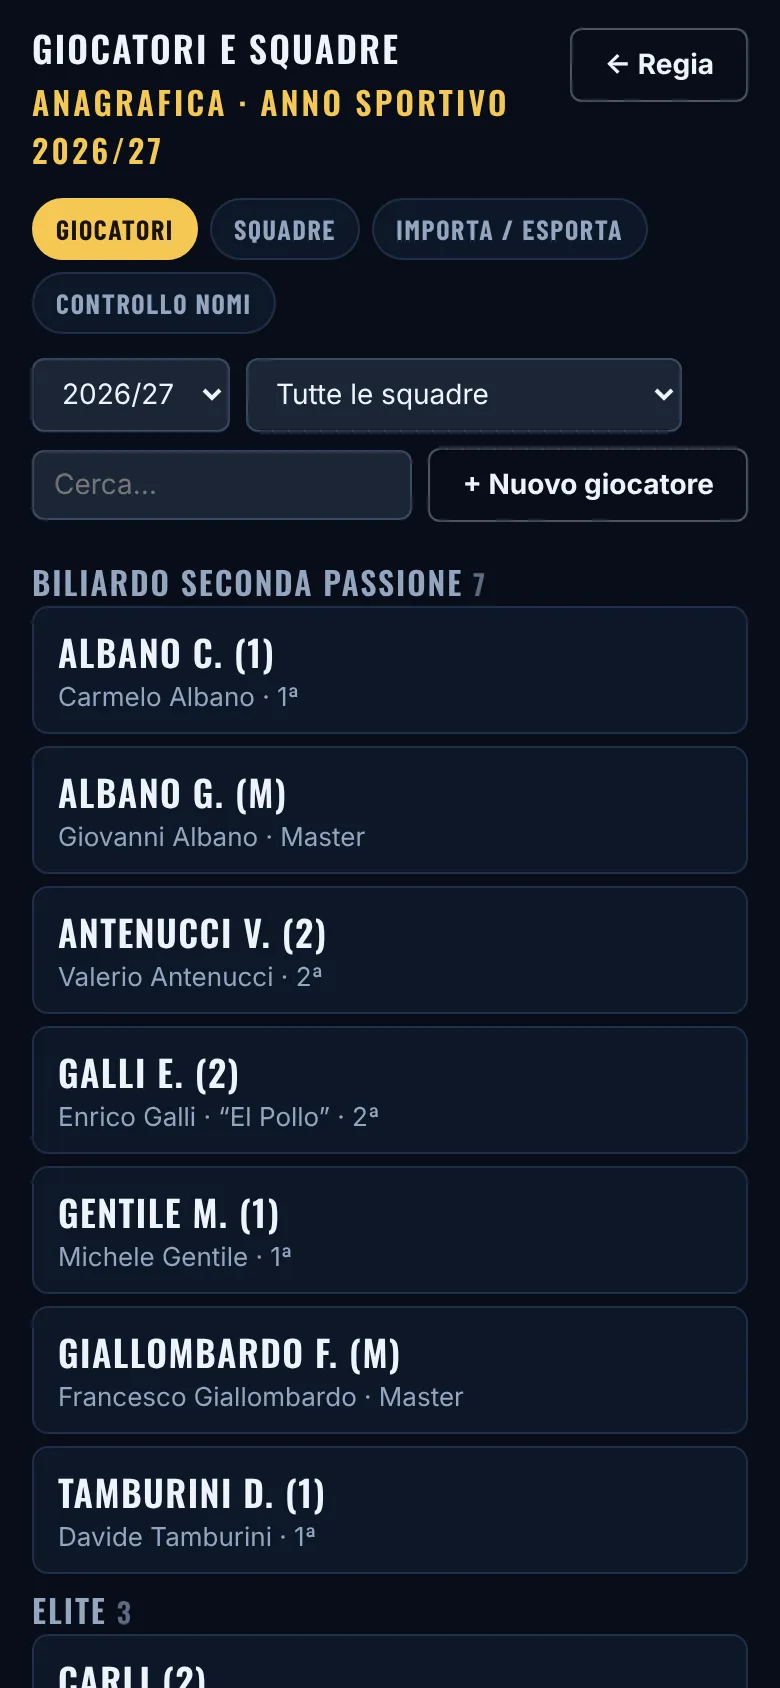
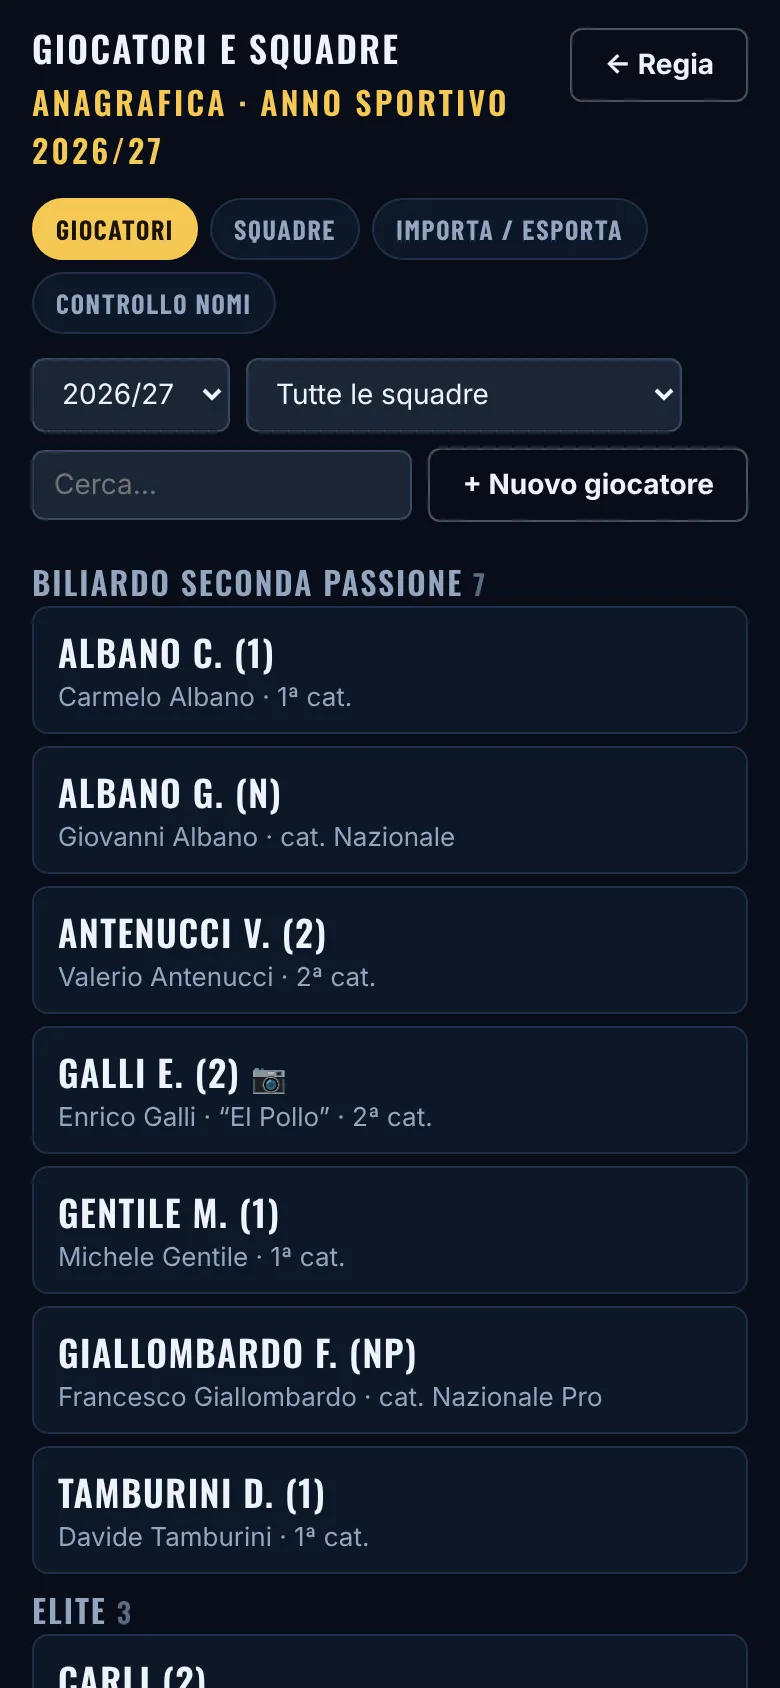
Categorie Nazionale e Nazionale Pro; etichette "2ª cat." / "cat. Master" in elenchi e pagine dei giocatori
Claude-Session: https://claude.ai/code/session_01EqSLKnxJMSCgy9CtMYkmaD

diff --git a/js/anagrafica.js b/js/anagrafica.js
@@ -2,11 +2,13 @@
    I file js/ si caricano in ordine da index.html e condividono le stesse variabili (script classici, non moduli:
    così la regia funziona anche aperta dal disco). L'ordine conta. */
 /* ================= anagrafica: giocatori e squadre (giocatori/<codice>, squadre/<codice>) =================
-   giocatori/<codice> = {cognome, nome, sopr?, tab?, anni:{<anno sportivo>: {sq:<codice squadra>, cat:"M"|"1"|"2"|"3"}}}
+   giocatori/<codice> = {cognome, nome, sopr?, tab?, anni:{<anno sportivo>: {sq:<codice squadra>, cat:"NP"|"N"|"M"|"1"|"2"|"3"}}}  (NP = Nazionale Pro, N = Nazionale, M = Master)
    anno sportivo = anno di inizio (2026 = 2026/27, da settembre ad agosto). Il codice nasce alla prima registrazione e non cambia più. */
 let ANAG = null, SQUADRE = null, anErr = "", anTab = "g", anStag = null, anSq = "", anQ = "", anImp = "", anEd = null, anWatch = false;
-const CATS = ["M","1","2","3"];
-const catLabel = c => c==="M" ? "Master" : c ? c + "ª" : "";
+const CATS = ["NP","N","M","1","2","3"];
+const CATN = {NP:"Nazionale Pro", N:"Nazionale", M:"Master"};
+const catShort = c => CATN[c] || (c ? c + "ª" : "");   /* tendina della scheda */
+const catLabel = c => CATN[c] ? "cat. " + CATN[c] : c ? c + "ª cat." : "";   /* elenchi e pagine: "cat. Master", "2ª cat." */
 const stagione = d => { const x = String(d || today()), y = +x.slice(0,4), m = +x.slice(5,7); return m>=9 ? y : y-1; };
 const stagLabel = y => `${y}/${String(+y+1).slice(2)}`;
 const anniOf = p => Object.keys((p && p.anni) || {}).map(Number).sort((a,b)=>a-b);
@@ -18,7 +20,8 @@ const sqName = k => (SQUADRE && SQUADRE[k] && SQUADRE[k].nome) || k || "";
 const sqSorted = () => Object.entries(SQUADRE||{}).sort((a,b)=>isClub(b[0])-isClub(a[0]) || String(a[1].nome).localeCompare(String(b[1].nome)));
 const findSq = nome => { nome = String(nome||"").trim().toLowerCase(); if(!nome) return ""; const x = Object.entries(SQUADRE||{}).find(([k,s])=>String(s.nome||"").trim().toLowerCase()===nome); return x ? x[0] : ""; };
 const sqLogo = (k, s) => isClub(k) ? `<img src="${LOGO_HOME}" alt="">` : s && s.logo ? `<img src="${esc(s.logo)}" alt="">` : `<i class="sb">${esc(String((s && s.nome) || "?").charAt(0).toUpperCase())}</i>`;
-function parseCat(t){ t = String(t||"").trim().toUpperCase(); if(/^M/.test(t)) return "M"; const n = t.match(/^[1-3]/); return n ? n[0] : ""; }
+function parseCat(t){ t = String(t||"").trim().toUpperCase().replace(/^CAT(EGORIA)?\.?\s*/, "");
+  if(/^(NP|PRO|NAZ\w*\.?\s*PRO)/.test(t)) return "NP"; if(/^(N|NAZ)/.test(t)) return "N"; if(/^M/.test(t)) return "M"; const n = t.match(/^[1-3]/); return n ? n[0] : ""; }
 function parseAnno(t){ const m = String(t||"").match(/(20\d\d)/); return m ? +m[1] : null; }
 const wErr = err => err && err.code==="PERMISSION_DENIED" ? "Firebase rifiuta la scrittura: controlla che le regole del database abbiano i nodi giocatori, squadre e foto (vedi LEGGIMI)" : "Salvataggio non riuscito (" + ((err && (err.code||err.message)) || "?") + ")";
 function watchAnag(){
@@ -102,7 +105,7 @@ function anSqHTML(){
 }
 function anImpHTML(){
   return `<section class="panel"><h2>Importa da tabella</h2>
-    <p class="hint">Copia le righe da Excel, con la riga di intestazione, e incollale qui. Colonne: Nome, Cognome, Squadra, Città, Categoria (M, 1, 2, 3), Anno (anno sportivo: 2026 = 2026/27).
+    <p class="hint">Copia le righe da Excel, con la riga di intestazione, e incollale qui. Colonne: Nome, Cognome, Squadra, Città, Categoria (NP = Nazionale Pro, N = Nazionale, M = Master, 1, 2, 3), Anno (anno sportivo: 2026 = 2026/27).
     Le squadre che mancano vengono create; per un giocatore già presente si aggiorna solo l'anno indicato.</p>
     <textarea id="an-imp" spellcheck="false" placeholder="Nome&#9;Cognome&#9;Squadra&#9;Città&#9;Categoria&#9;Anno">${esc(anImp)}</textarea><div id="an-prev">${impPrevHTML()}</div></section>
     <section class="panel"><h2>Esporta</h2><p class="hint">Tutti i giocatori, una riga per anno sportivo, nello stesso formato: si incolla in Excel.</p>
@@ -127,7 +130,7 @@ function parseImp(t){
     if(!r.cognome) errs.push(`riga ${n}: manca il cognome`);
     else if(!r.squadra) errs.push(`riga ${n}: manca la squadra`);
     else if(!r.anno) errs.push(`riga ${n}: anno "${g(5)}" non valido`);
-    else if(g(4) && !r.cat) errs.push(`riga ${n}: categoria "${g(4)}" non riconosciuta (M, 1, 2, 3)`);
+    else if(g(4) && !r.cat) errs.push(`riga ${n}: categoria "${g(4)}" non riconosciuta (NP, N, M, 1, 2, 3)`);
     else rows.push(r);
   });
   return {rows, errs};
@@ -172,7 +175,7 @@ async function doImport(){
 const yearOpts = sel => { const s = new Set([stagione() + 1, sel]); for(let y = stagione(); y>=2015; y--) s.add(y); return [...s].filter(Boolean).sort((a,b)=>b-a).map(y=>`<option value="${y}"${y===sel ? " selected" : ""}>${stagLabel(y)}</option>`).join(""); };
 const sqOpts = sel => sqSorted().map(([k,s])=>`<option value="${esc(k)}"${k===sel ? " selected" : ""}>${esc(s.nome)}</option>`).join("") + (sel && !(SQUADRE||{})[sel] ? `<option value="${esc(sel)}" selected>${esc(sel)}</option>` : "");
 const yrow = (y, r) => `<div class="row yr"><label>Anno sportivo<select data-yy>${yearOpts(y)}</select></label><label class="ys">Squadra<select data-ys>${sqOpts(r.sq)}</select></label>
-  <label>Categoria<select data-yc><option value="">—</option>${CATS.map(c=>`<option value="${c}"${c===r.cat ? " selected" : ""}>${catLabel(c)}</option>`).join("")}</select></label><button class="yx" data-yx title="Togli questo anno" aria-label="Togli questo anno">✕</button></div>`;
+  <label>Categoria<select data-yc><option value="">—</option>${CATS.map(c=>`<option value="${c}"${c===r.cat ? " selected" : ""}>${catShort(c)}</option>`).join("")}</select></label><button class="yx" data-yx title="Togli questo anno" aria-label="Togli questo anno">✕</button></div>`;
 const anMsg = t => { const m = $("#an-m"); if(m) m.textContent = t; };
 const delLabel = () => anEd.del && Date.now() - anEd.del < 4000 ? "Conferma: elimina" : "Elimina";
 function openPlayer(k, pre){

diff --git a/index.html b/index.html
@@ -17,12 +17,12 @@
 <meta name="apple-mobile-web-app-title" content="Live 2P">
 <link rel="preconnect" href="https://fonts.gstatic.com" crossorigin>
 <link rel="stylesheet" href="https://fonts.googleapis.com/css2?family=Barlow+Condensed:wght@500;600;700;800&family=Oswald:wght@600;700&display=swap">
-<link rel="stylesheet" href="css/base.css?v=2026110501">
-<link rel="stylesheet" href="css/elenco-regia.css?v=2026110501">
-<link rel="stylesheet" href="css/torneo.css?v=2026110501">
-<link rel="stylesheet" href="css/set-andamento.css?v=2026110501">
-<link rel="stylesheet" href="css/anagrafica.css?v=2026110501">
-<link rel="stylesheet" href="css/overlay.css?v=2026110501">
+<link rel="stylesheet" href="css/base.css?v=2026110502">
+<link rel="stylesheet" href="css/elenco-regia.css?v=2026110502">
+<link rel="stylesheet" href="css/torneo.css?v=2026110502">
+<link rel="stylesheet" href="css/set-andamento.css?v=2026110502">
+<link rel="stylesheet" href="css/anagrafica.css?v=2026110502">
+<link rel="stylesheet" href="css/overlay.css?v=2026110502">
 </head>
 <body>
 <div id="app"></div>
@@ -69,22 +69,22 @@
 <div id="sug" hidden role="listbox" aria-label="Giocatori"></div>
 <script src="https://www.gstatic.com/firebasejs/10.12.2/firebase-app-compat.js"></script>
 <script src="https://www.gstatic.com/firebasejs/10.12.2/firebase-database-compat.js"></script>
-<script src="js/config.js?v=2026110501"></script>
-<script src="js/formule.js?v=2026110501"></script>
-<script src="js/util.js?v=2026110501"></script>
-<script src="js/gara.js?v=2026110501"></script>
-<script src="js/dati.js?v=2026110501"></script>
-<script src="js/vista-gara.js?v=2026110501"></script>
-<script src="js/vista-elenco.js?v=2026110501"></script>
-<script src="js/render.js?v=2026110501"></script>
-<script src="js/interazioni.js?v=2026110501"></script>
-<script src="js/anagrafica.js?v=2026110501"></script>
-<script src="js/nomi.js?v=2026110501"></script>
-<script src="js/controllo-nomi.js?v=2026110501"></script>
-<script src="js/giocatori.js?v=2026110501"></script>
-<script src="js/overlay.js?v=2026110501"></script>
-<script src="js/regia-barra.js?v=2026110501"></script>
-<script src="js/avvio.js?v=2026110501"></script>
+<script src="js/config.js?v=2026110502"></script>
+<script src="js/formule.js?v=2026110502"></script>
+<script src="js/util.js?v=2026110502"></script>
+<script src="js/gara.js?v=2026110502"></script>
+<script src="js/dati.js?v=2026110502"></script>
+<script src="js/vista-gara.js?v=2026110502"></script>
+<script src="js/vista-elenco.js?v=2026110502"></script>
+<script src="js/render.js?v=2026110502"></script>
+<script src="js/interazioni.js?v=2026110502"></script>
+<script src="js/anagrafica.js?v=2026110502"></script>
+<script src="js/nomi.js?v=2026110502"></script>
+<script src="js/controllo-nomi.js?v=2026110502"></script>
+<script src="js/giocatori.js?v=2026110502"></script>
+<script src="js/overlay.js?v=2026110502"></script>
+<script src="js/regia-barra.js?v=2026110502"></script>
+<script src="js/avvio.js?v=2026110502"></script>
 
 </body>
 </html>

diff --git a/manuale.html b/manuale.html
@@ -327,7 +327,7 @@ assente
 <h2><span class="n">9</span>Giocatori e squadre</h2>
 <p>Dalla regia, <span class="btn">👥 Giocatori e squadre</span> apre l'anagrafica, con quattro schede: Giocatori, Squadre, Importa / esporta, Controllo nomi.</p>
 <h3>Anno sportivo e categorie</h3>
-<p>L'anno sportivo va da settembre ad agosto e si indica con l'anno di inizio: <b>2026 = 2026/27</b>. Per ogni anno un giocatore ha una squadra e una categoria: <b>M</b> (Master), <b>1</b>, <b>2</b>, <b>3</b>. Ogni partita usa la categoria dell'anno sportivo in cui è stata giocata, quindi un cambio di categoria non altera le gare passate.</p>
+<p>L'anno sportivo va da settembre ad agosto e si indica con l'anno di inizio: <b>2026 = 2026/27</b>. Per ogni anno un giocatore ha una squadra e una categoria: <b>NP</b> (Nazionale Pro), <b>N</b> (Nazionale), <b>M</b> (Master), <b>1</b>, <b>2</b>, <b>3</b>. Sul tabellone compare la sigla tra parentesi, per esempio “GALLI E. (2)” o “ROSSI M. (NP)”; negli elenchi e nelle pagine dei giocatori per esteso: “2ª cat.”, “cat. Master”, “cat. Nazionale”, “cat. Nazionale Pro”. Ogni partita usa la categoria dell'anno sportivo in cui è stata giocata, quindi un cambio di categoria non altera le gare passate.</p>
 <h3>Scheda del giocatore</h3>
 <ul>
   <li><b>Cognome e nome:</b> il nome sul tabellone si compone da solo, “Galli E.”. Il nome può restare vuoto: sul tabellone comparirà solo il cognome.</li>
@@ -348,7 +348,7 @@ assente
 <tr><td></td><td>Carli</td><td>Elite</td><td>Ferrara (FE)</td><td>2</td><td>2026</td></tr>
 </table></div>
 <ul>
-  <li>Obbligatori: cognome, squadra, anno. Categoria: M (o Master), 1, 2, 3; si può lasciare vuota.</li>
+  <li>Obbligatori: cognome, squadra, anno. Categoria: NP (o Nazionale Pro), N (o Nazionale), M (o Master), 1, 2, 3; si può lasciare vuota.</li>
   <li>Con l'intestazione le colonne possono essere in qualsiasi ordine. Vanno bene anche testi separati da <code>;</code> o <code>,</code>.</li>
   <li>Prima di importare compare un'anteprima riga per riga: nuovo giocatore, anno aggiunto, aggiornamento, già presente. Le squadre mancanti vengono create.</li>
   <li>Reincollare la stessa tabella non crea doppioni. A ogni nuova stagione basta incollare le righe del nuovo anno.</li>
@@ -510,6 +510,7 @@ assente
 <h2><span class="n">15</span>Novità</h2>
 <h3>5 novembre 2026</h3>
 <ul>
+  <li>Nuove categorie Nazionale (N) e Nazionale Pro (NP); negli elenchi e nelle pagine dei giocatori la categoria si legge “2ª cat.”, “cat. Master”.</li>
   <li>Foto dei giocatori: si caricano dalla scheda dell'anagrafica e compaiono nella pagina pubblica del giocatore.</li>
   <li>Regole del database più sicure (accesso alla regia legato all'UID dell'utente) e nuova sezione “Sicurezza” nel capitolo Amministrazione.</li>
 </ul>
